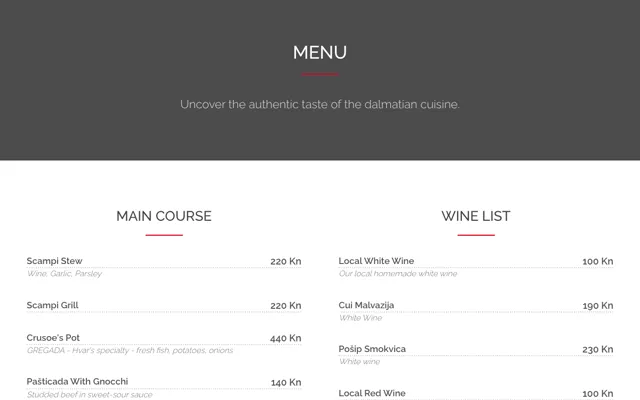
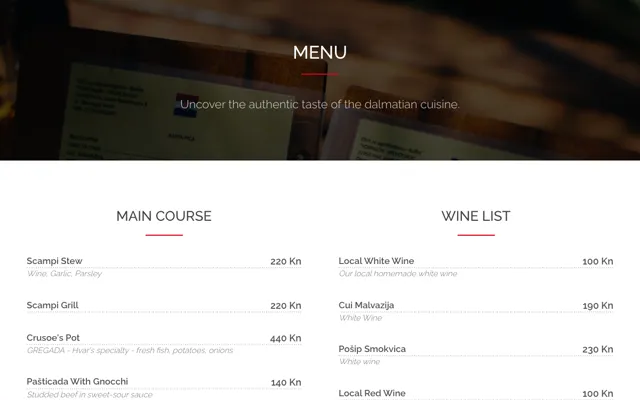
fix: Robinson screens with their section backgrounds, and no standing shade on the next-project plate
The menu and gallery headings sit on backgrounds fixed to the window,
which a full-page capture never paints; they are recaptured from a real
scrolled window. The next-project plate is shaded only while the light
band crosses it, so a white screenshot is no longer grey at rest.

diff --git a/src/app/globals.css b/src/app/globals.css
@@ -969,11 +969,17 @@ html:has(.lightbox[open]) {
   }
 }
 
-/* Where the band of light on the next-project plate is, along its diagonal. Off the left edge at rest. */
+/* Where the band of light on the next-project plate is, along its diagonal (off the left edge at
+   rest), and how much shade the plate is in while the band crosses it (none at rest). */
 @property --sweep {
   syntax: '<percentage>';
   inherits: true;
   initial-value: -30%;
+}
+@property --shade {
+  syntax: '<number>';
+  inherits: true;
+  initial-value: 0;
 }
 /* Case-study close: the next project's name with its plate, small, beside it. On hover the arrow
    leaves the name and runs across to the plate, which takes an amber edge as it lands and is
@@ -1064,8 +1070,9 @@ html:has(.lightbox[open]) {
   .cs-next:is(:hover, :focus-visible) .cs-go > span {
     translate: 0 0;
   }
-  /* The hero's light: the plate sits in a little shade, and once the arrow has landed and the edge
-     has lit, a band of light crosses it once (the shade lifts along the band, with a little gloss). */
+  /* The hero's light: once the arrow has landed and the edge has lit, a band of light crosses the
+     plate once. The plate dips into a little shade only for the crossing, so the band has something
+     to lift; before and after it the picture is at full brightness. */
   .cs-next-plate {
     position: relative;
     isolation: isolate;
@@ -1081,7 +1088,7 @@ html:has(.lightbox[open]) {
   }
   .cs-next-plate::before {
     background: var(--color-bg-base);
-    opacity: 0.16;
+    opacity: var(--shade);
     mask-image: linear-gradient(105deg, #000 calc(var(--sweep) - 26%), transparent var(--sweep), #000 calc(var(--sweep) + 26%));
   }
   .cs-next-plate::after {
@@ -1094,12 +1101,24 @@ html:has(.lightbox[open]) {
     mix-blend-mode: screen;
   }
   .cs-next:is(:hover, :focus-visible) .cs-next-plate {
-    --sweep: 130%;
     border-color: var(--color-accent);
-    /* Leaving has no transition for the band, so it resets out of sight instead of sweeping back. */
-    transition:
-      border-color var(--duration-normal) var(--ease-standard) 400ms,
-      --sweep 1200ms var(--ease-standard) 600ms;
+    transition-delay: 400ms;
+    /* An animation, so leaving drops it at once: the band never sweeps back. */
+    animation: plate-shine 1200ms var(--ease-standard) 600ms both;
+  }
+}
+@keyframes plate-shine {
+  from {
+    --sweep: -30%;
+    --shade: 0;
+  }
+  20%,
+  80% {
+    --shade: 0.16;
+  }
+  to {
+    --sweep: 130%;
+    --shade: 0;
   }
 }
 
